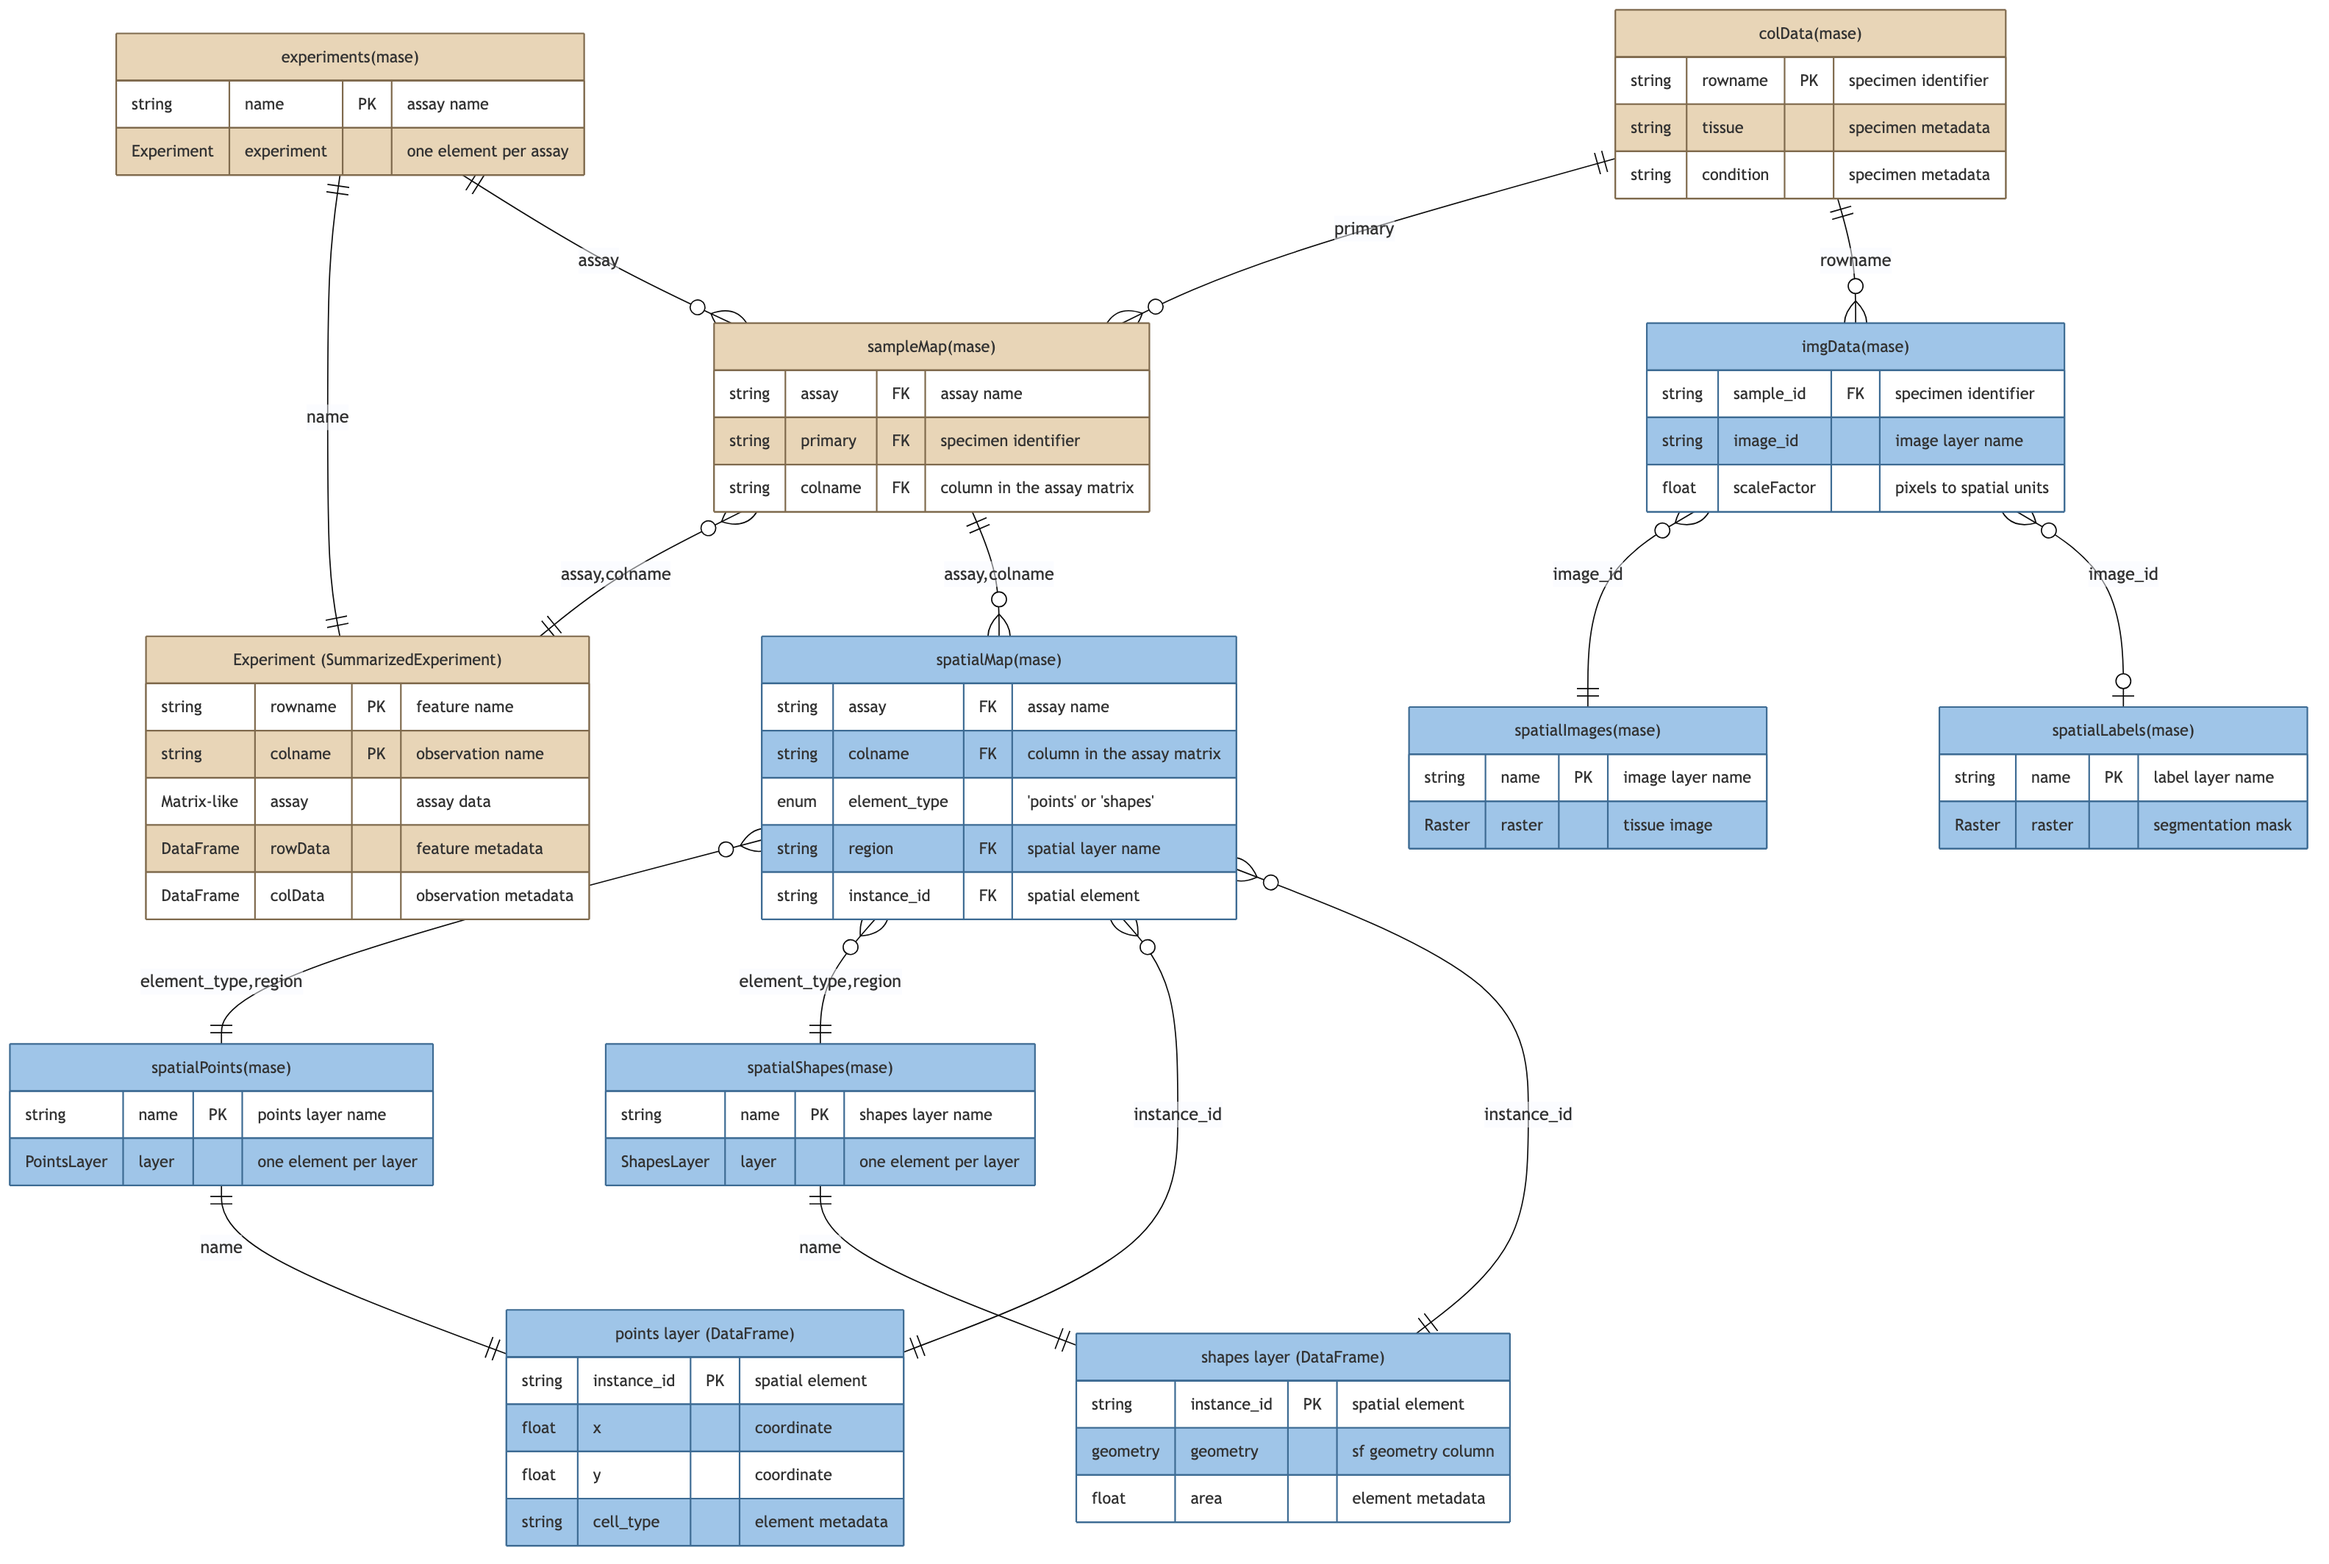
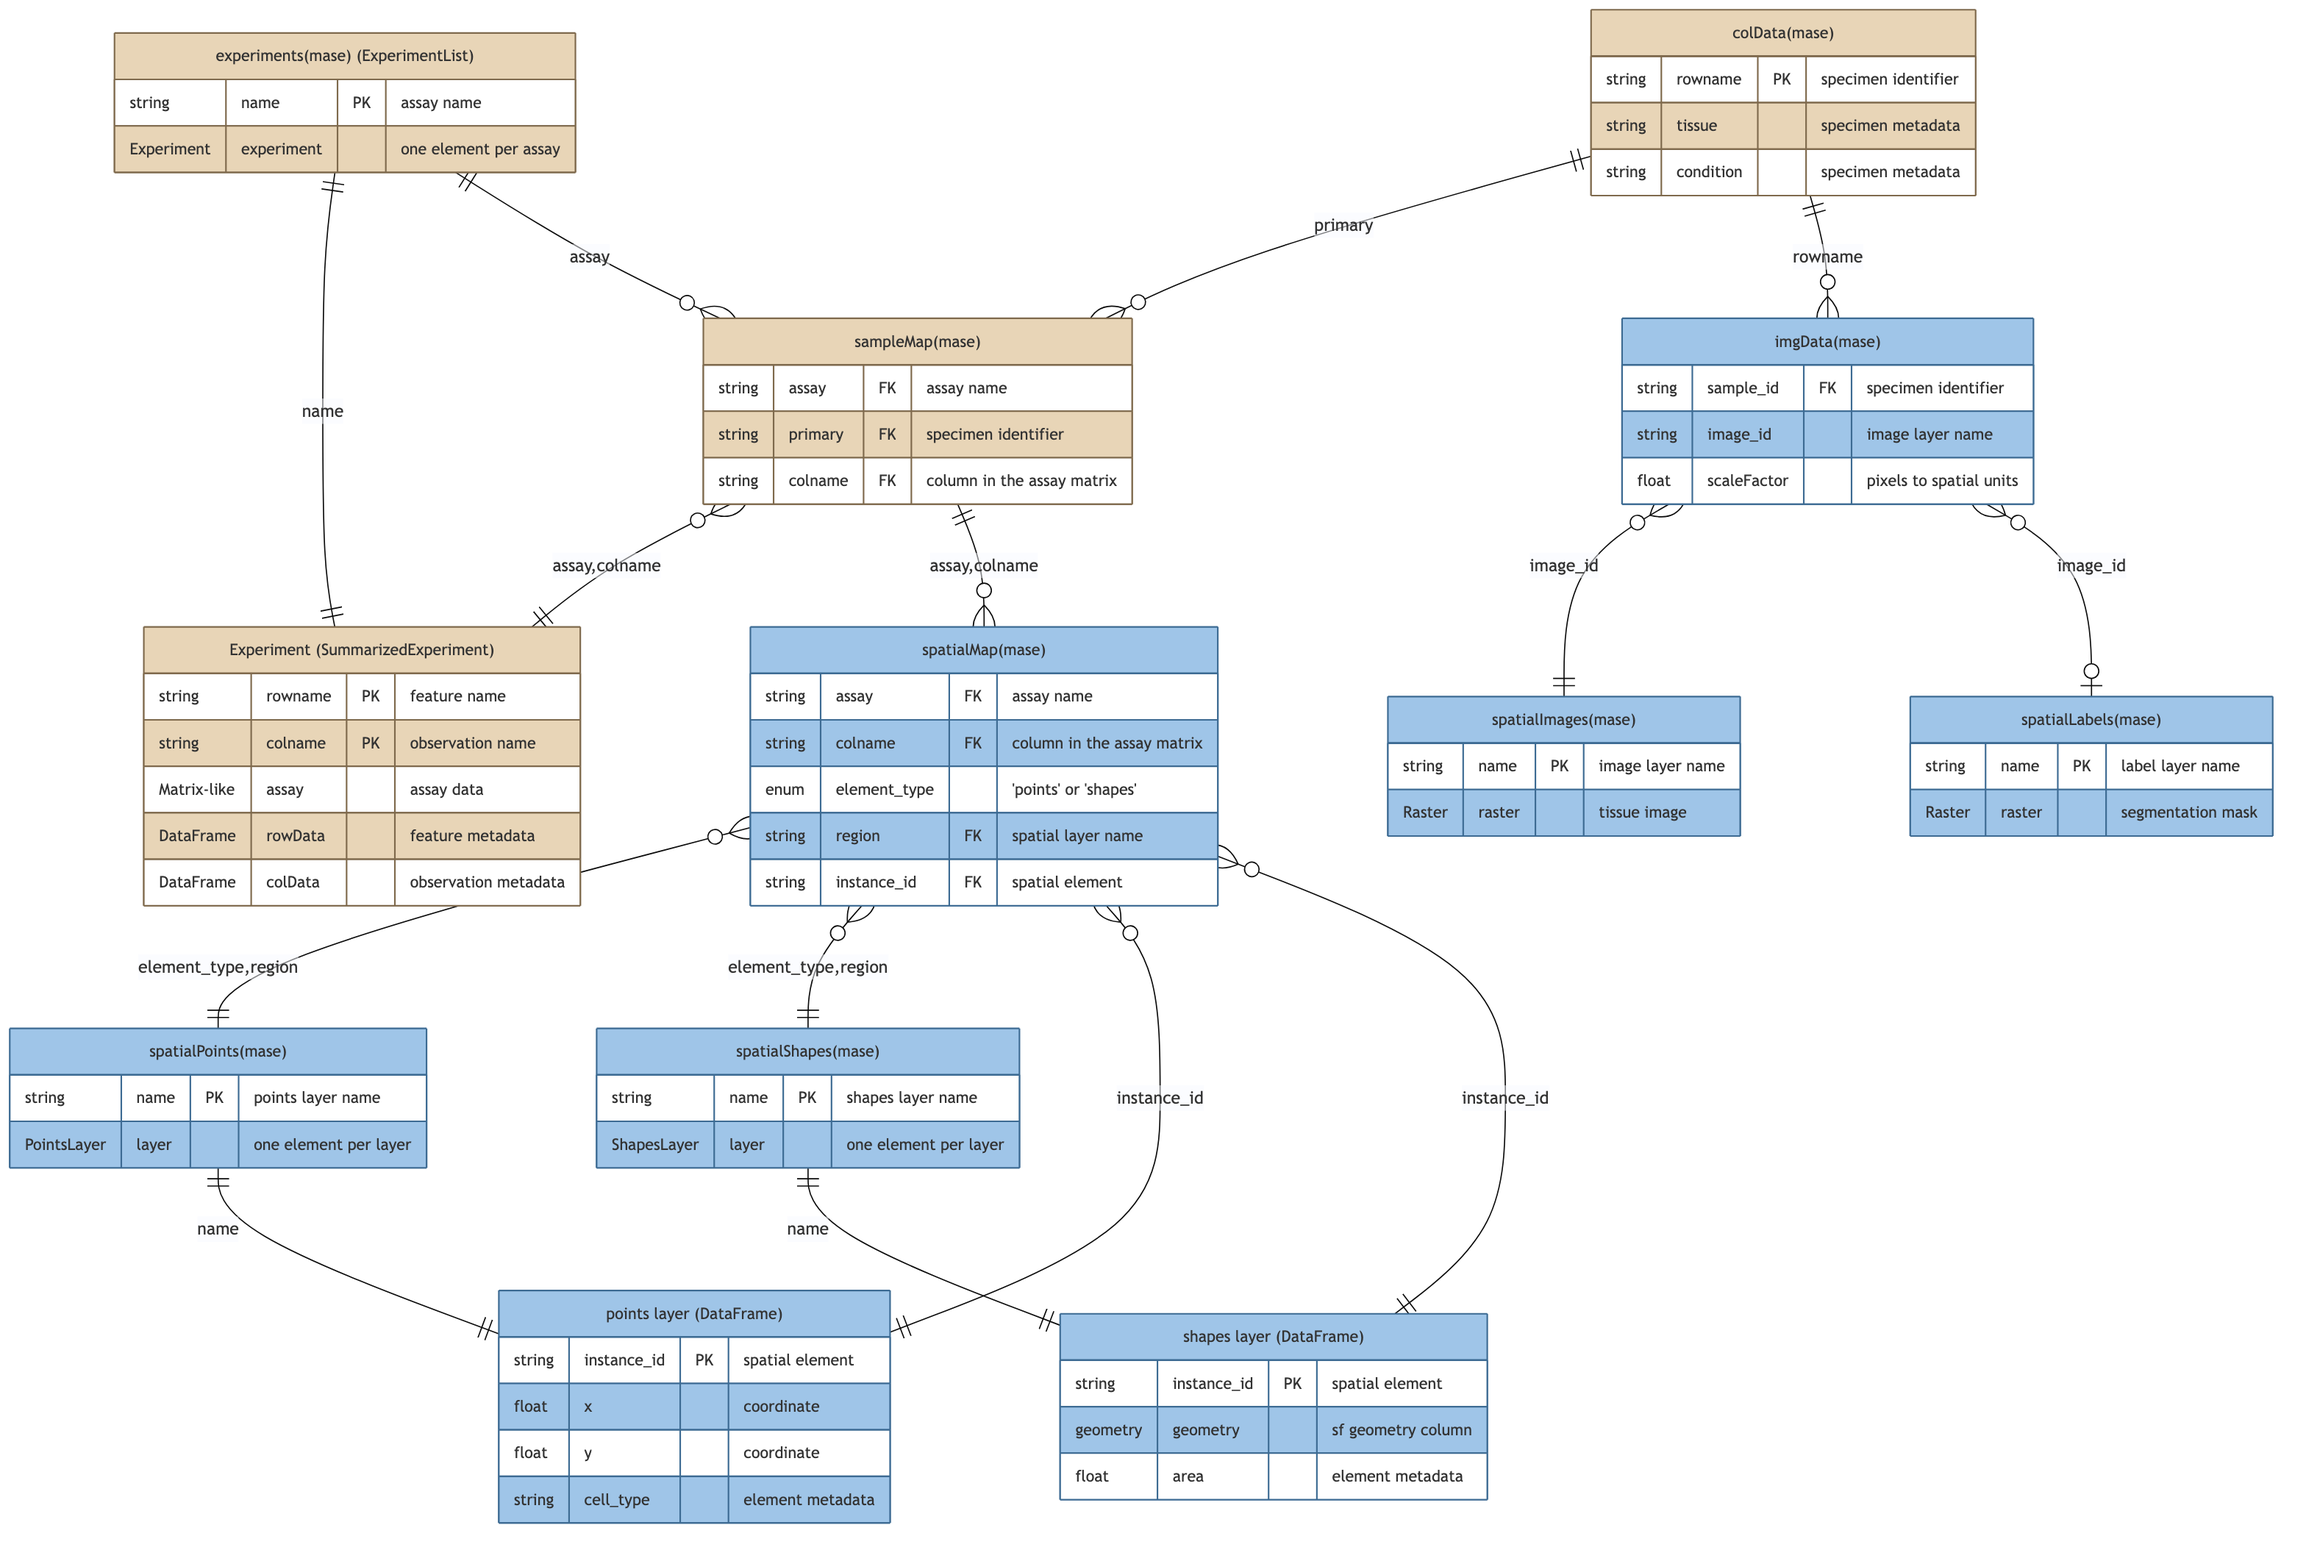
docs: fix four vignette issues found in an independent review pass
Reviewed the current vignettes against the standards the Bioconductor
review has consistently applied (prose over bullets, runnable code
over listings, consistent heading conventions) and fixed four residual
issues:

- The introduction vignette's own "Next steps" section was never
  renamed to "See also" like its two siblings; brought into line,
  including the "*Title*: short phrase" bullet convention the other
  two already use.
- "Working with MultiAssaySpatialExperiment"'s "Validation checklist"
  listed construction invariants but never demonstrated any of them.
  Added two runnable, verified examples: a sampleMap mismatch silently
  dropped with a message during harmonization, and a broken
  spatialMap that fails validObject() outright.
- Converted six narrative/comparison bulleted lists in -usecases.Rmd
  and -workflows.Rmd to prose. Structural lists (file listings,
  parameter tables, "See also") were left alone.
- The ERD's experiments(mase) box had no visible connection to the
  ExperimentList class named in the surrounding prose; relabeled to
  match the Experiment (SummarizedExperiment) convention already used
  for a different entity in the same diagram.

While regenerating the diagram, found build_diagrams.sh would
silently regenerate it at 784x527 (the exact low resolution from a
previous review round), since the script never recorded the scale
factor used to produce the checked-in 3168x2128 image, and its
[…]

diff --git a/NEWS.md b/NEWS.md
@@ -1,3 +1,44 @@
+# MultiAssaySpatialExperiment 0.99.11
+
+## Documentation
+
+- A fresh review of the current vignettes against the standards the
+  Bioconductor review has consistently applied (prose over bullets, runnable
+  code over listings, consistent heading conventions) found four residual
+  issues, all fixed:
+  - The introduction vignette's own "Next steps" section was never actually
+    renamed to "See also", unlike its two siblings: it still read
+    `# Where to go next`, in a full-sentence bullet style that didn't match
+    the "*Title*: short phrase" convention `-workflows.Rmd` and
+    `-usecases.Rmd` already use consistently. Brought into line.
+  - *Working with MultiAssaySpatialExperiment*'s "Validation checklist"
+    section listed construction invariants but never demonstrated any of
+    them, the same "listing instead of demonstrating" pattern already fixed
+    elsewhere in that vignette. Added two runnable, verified examples: a
+    `sampleMap` mismatch that is silently dropped with a message during
+    harmonization, and a broken `spatialMap` that fails `validObject()`
+    outright, since a dangling geometry reference cannot be silently
+    dropped the way a sampleMap row can.
+  - Converted six narrative/comparison bulleted lists in `-usecases.Rmd` and
+    `-workflows.Rmd` to prose (transcript use cases, two Xenium/Visium
+    background comparisons, a data-preparation listing, the aggregation
+    strategy rationale, and the rasterization/vectorization preview).
+    Structural lists (vendor output file listings, parameter tables, the
+    numbered platform-integration rationale, "See also") were left alone;
+    those are legitimate uses of a list, not the pattern being fixed.
+  - The entity-relationship diagram's `experiments(mase)` box had no visible
+    connection to the `ExperimentList` class named in the surrounding prose;
+    relabeled to `experiments(mase) (ExperimentList)`, matching the
+    `Experiment (SummarizedExperiment)` convention the same diagram already
+    uses for a different entity.
+- While regenerating the diagram above, found that `build_diagrams.sh`
+  itself would silently regenerate it at 784x527, the exact low resolution
+  from a previous round of review, since the script never recorded the
+  scale factor actually used to produce the checked-in 3168x2128 image, and
+  its default background (`transparent`) rendered incorrectly in at least
+  one viewer. Both fixed (`-s 4`, default background changed to `white`);
+  the diagram is now reproducible from the script as checked in.
+
 # MultiAssaySpatialExperiment 0.99.10
 
 ## Documentation
